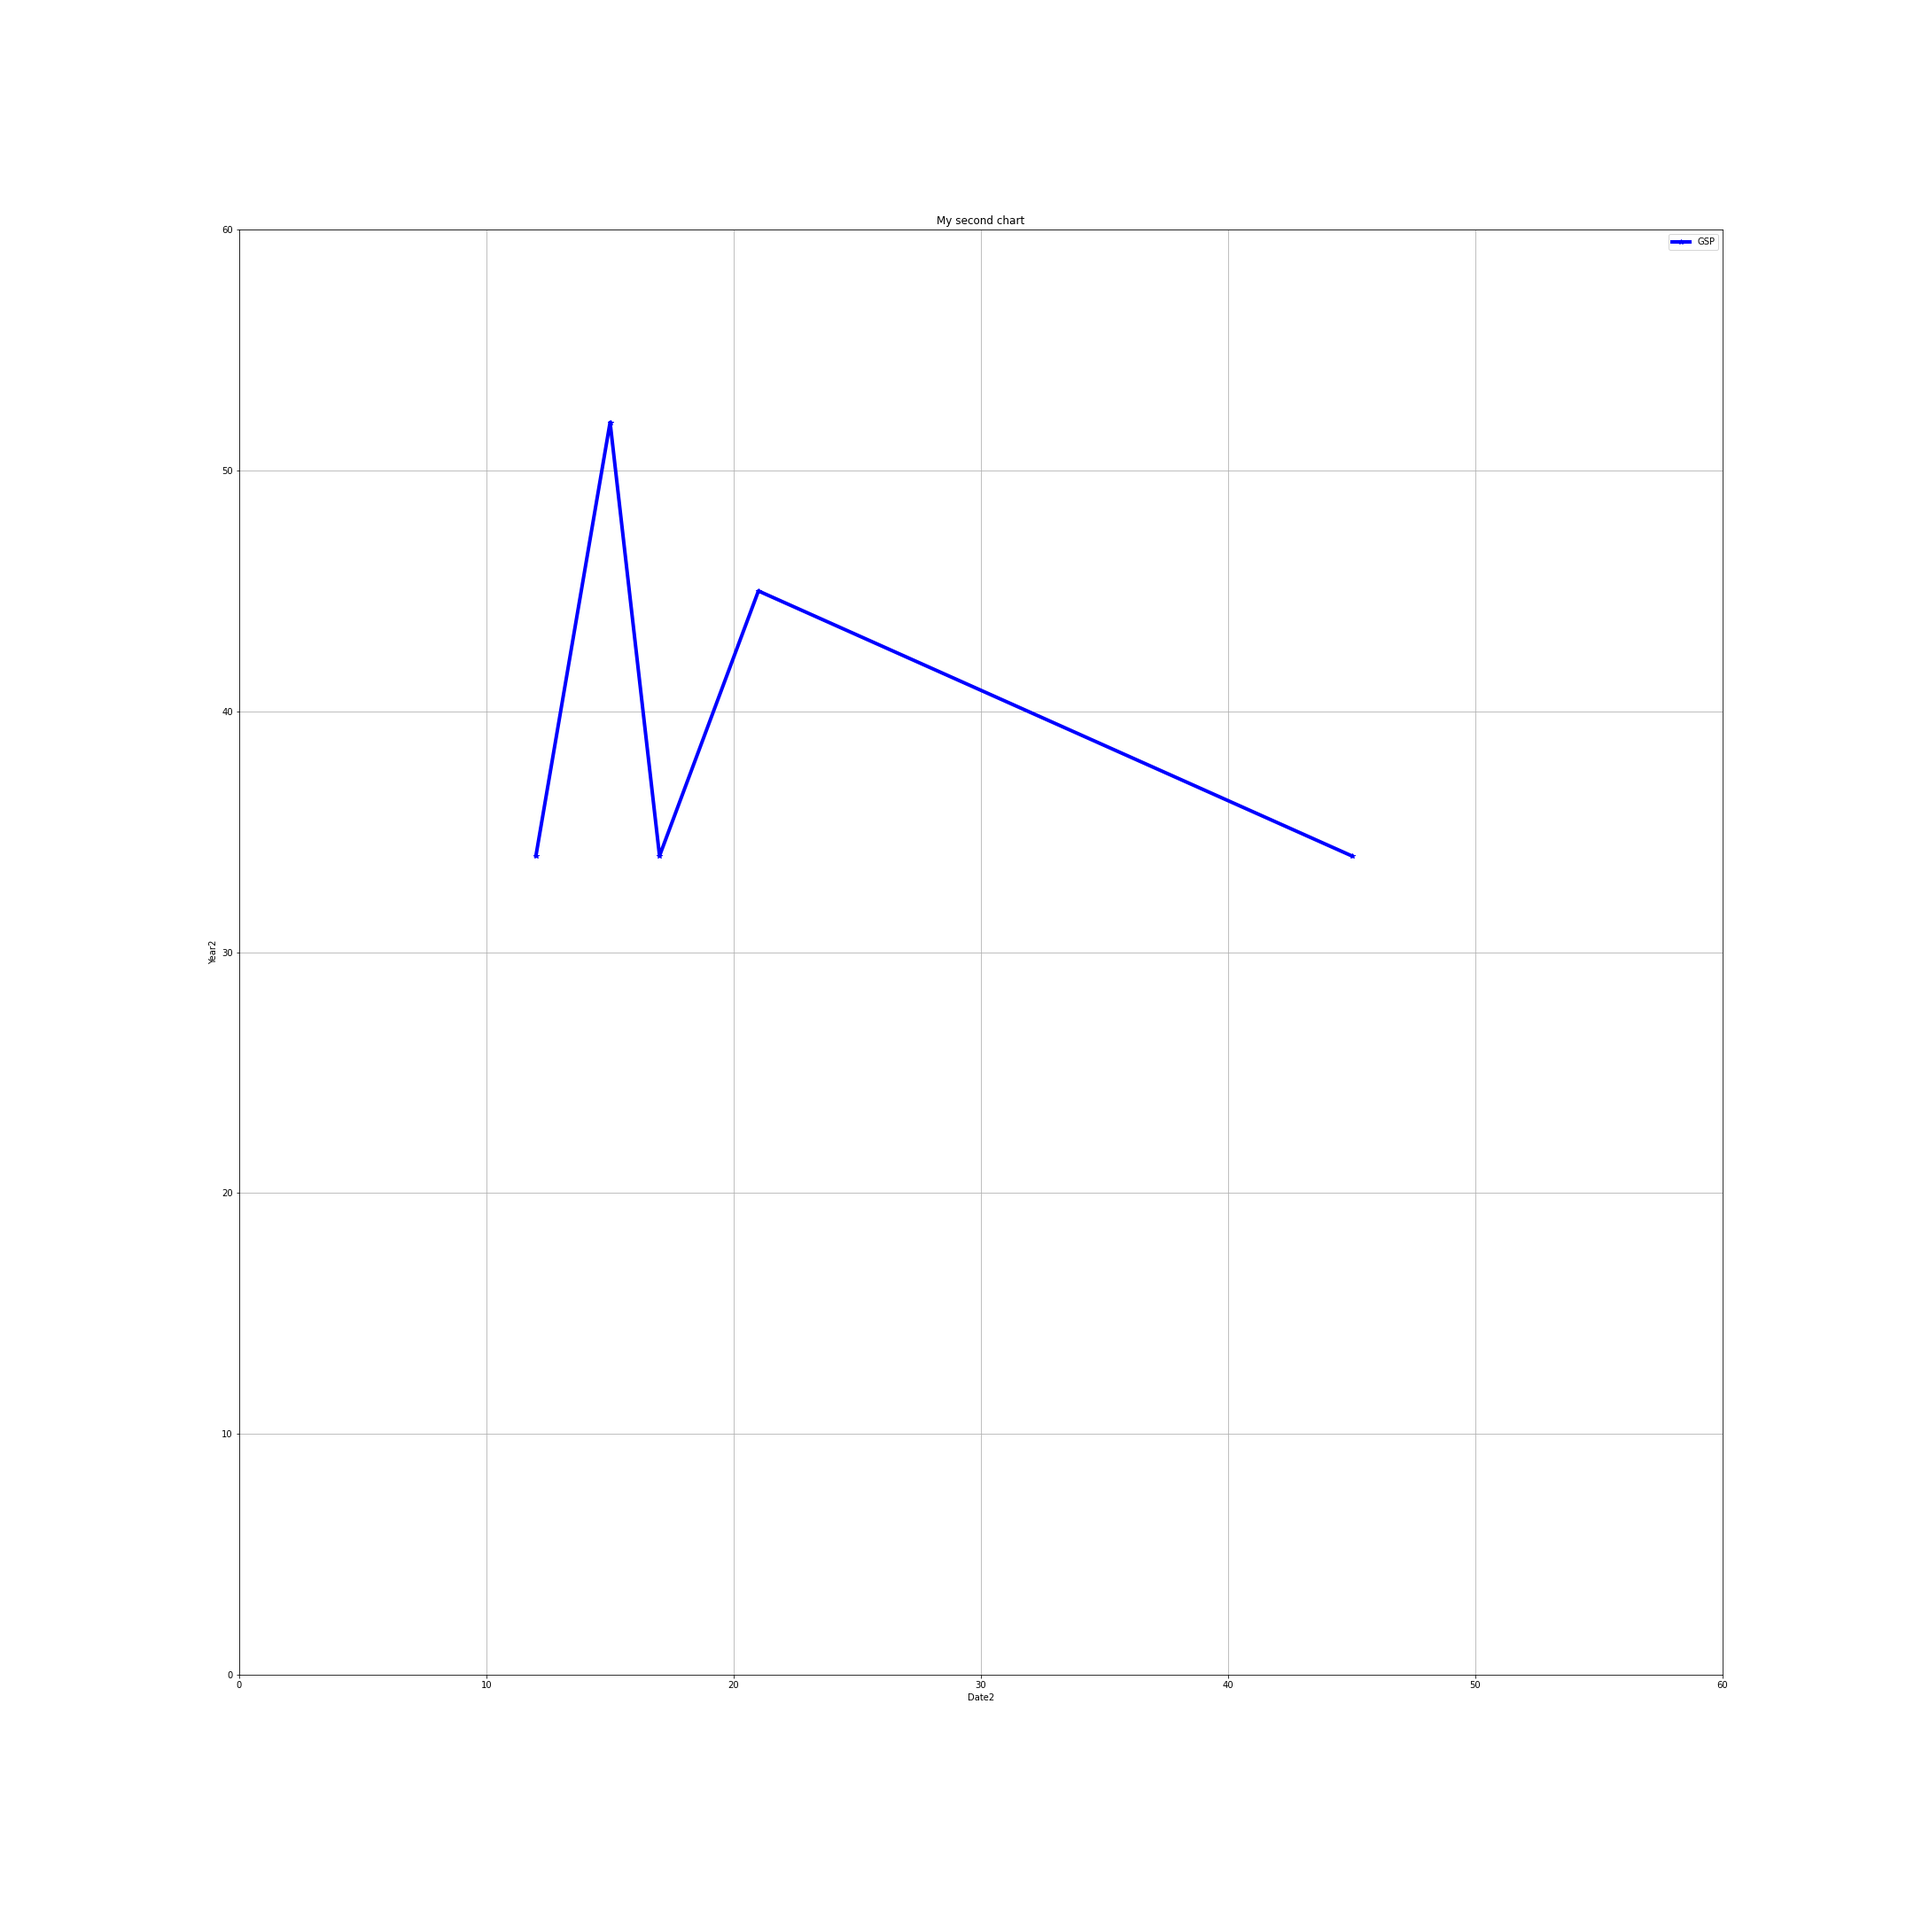
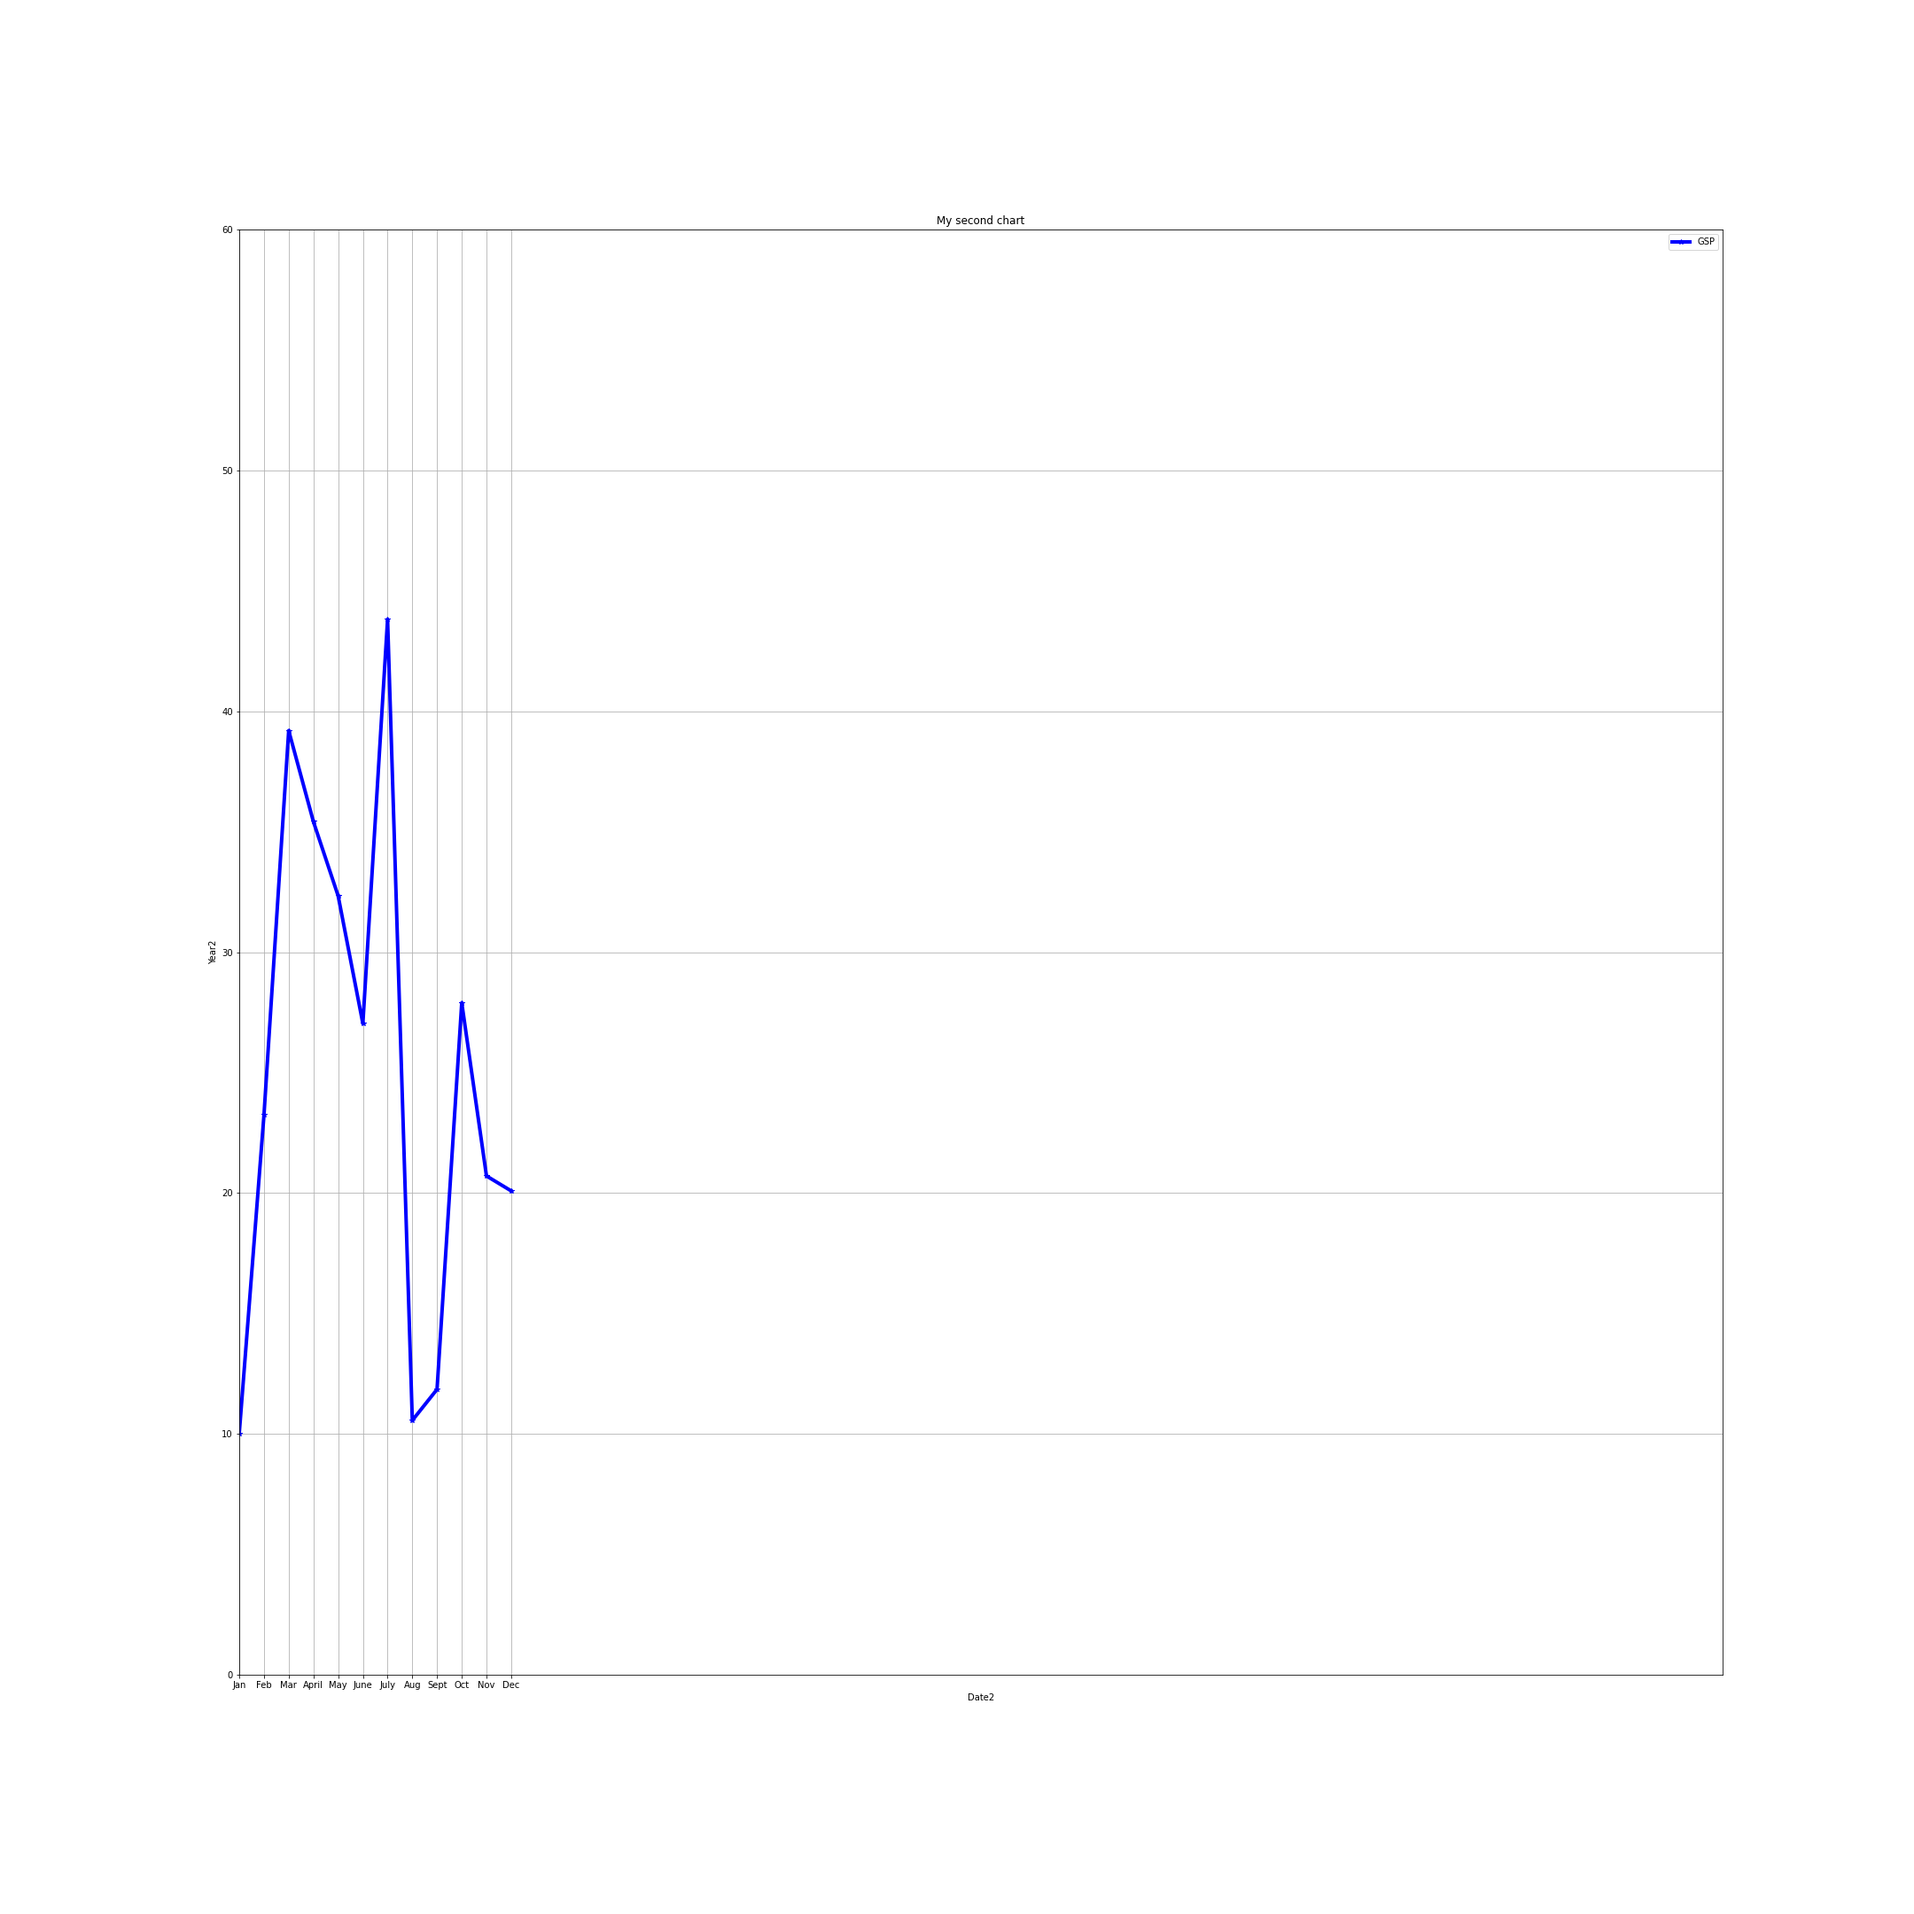
changed MissionDataJobStart.md

diff --git a/MissionDataJobStart.md b/MissionDataJobStart.md
@@ -70,7 +70,7 @@ Wk | Dates | Planned | Executed | Evaluation
 10 | 2021/02/15 - 2021/02/21 | | ## CanEx Week 3: classes + assignments  ## Mon, Feb 15 (Family Day) - Python(kaggle) + Python(Bootcamp) ## February 16th - CareerService - Resume/GitHub/LinkedIn/Brand-Statement, all became employer-competitive ### Feb 16th - xCS call - 8 PM, Feb 17th - xCS call @ 5 PM ## Wkend - a little Python classes 'Corey Schafer' + misc(RRSP + transfers + online shopping) + relaxation (snow mountain on Feb/20/2021) |
 11 | 2021/02/22 - 2021/02/28 | | ## CanEx Week 4: classes + assignments  ## Feb 24, Careeer Services session ## Feb 25 - talked to Career Director ## Wkend - started Pandas (Bootcamp)  |     
 12 | 2021/03/01 - 2021/03/07 | | ## CanEx Week 5: classes + assignments ## Finished kaggle Pandas |
-13 | 2021/03/08 - 2021/03/14 | | ## CanEx Week 6: classes + assignments + placement Week 1: ## to finish Bootcamp - Module 4-Pandas - https://bootcampspot.instructure.com/courses/193/pages/4-dot-5-1-find-missing-values?module_item_id=56647      |
+13 | 2021/03/08 - 2021/03/14 | | ## CanEx Week 6: classes + assignments + placement Week 1:  ## Finished CheprEats assignment ## Finished Bootcamp's - Module 4-Pandas, started Module 5 - Matplotlib |
 14 | 2021/03/15 - 2021/03/21 | |    |
 15 | 2021/03/22 - 2021/03/28 | |    |
 ---
@@ -305,7 +305,7 @@ misc | if __name == main | https://www.youtube.com/watch?v=sugvnHA7ElY |
 4.2 | showing the plot...at the end of the code| >>> `plt.show()` | 
 4.3 | line charts commands | | 
 4.3.1 | changing the size of graph in pixels...this goes as the first line while plotting the graph | >>> plt.figure(figsize=(w, h)) | 
-4.3.2 | basic plotting of the graph | >>> `plt.plot(x_axis, y_axis)` | 
+4.3.2 | basic plotting of the graph | >>> `plt.plot(x_axis, y_axis)` ...x_axis and y_axis are lists of equal length ...x_axis = [], y_axis = [] | 
 4.3.2.1 | adding to the basic plot | >>> `plt.plot(x_axis, y_axis, label='name_of_legend', marker = '*', color = 'green', linewidth = 2)` ...label has to be followed on the next line by >>> `plt.legend()` | 
 4.3.3 | >>> `plt.xlim(min, max)` | setting the minimum and maximum limit of x-axis | 
 4.3.4 | >>> `plt.ylim(min, max)` | setting the minimum and maximum limit of y-axis | 
